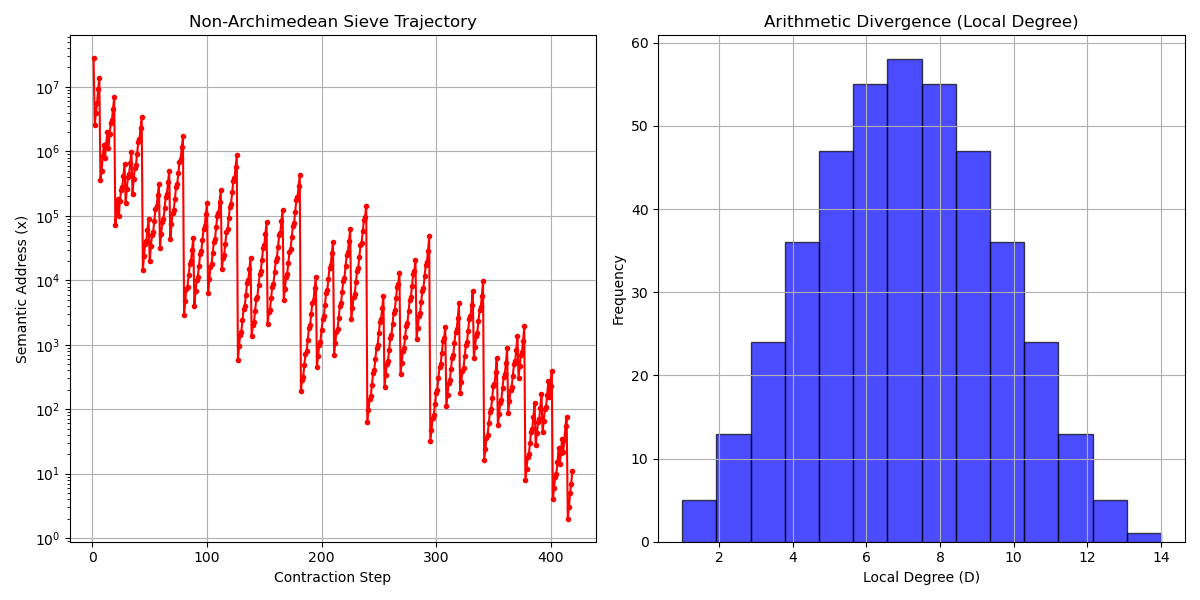
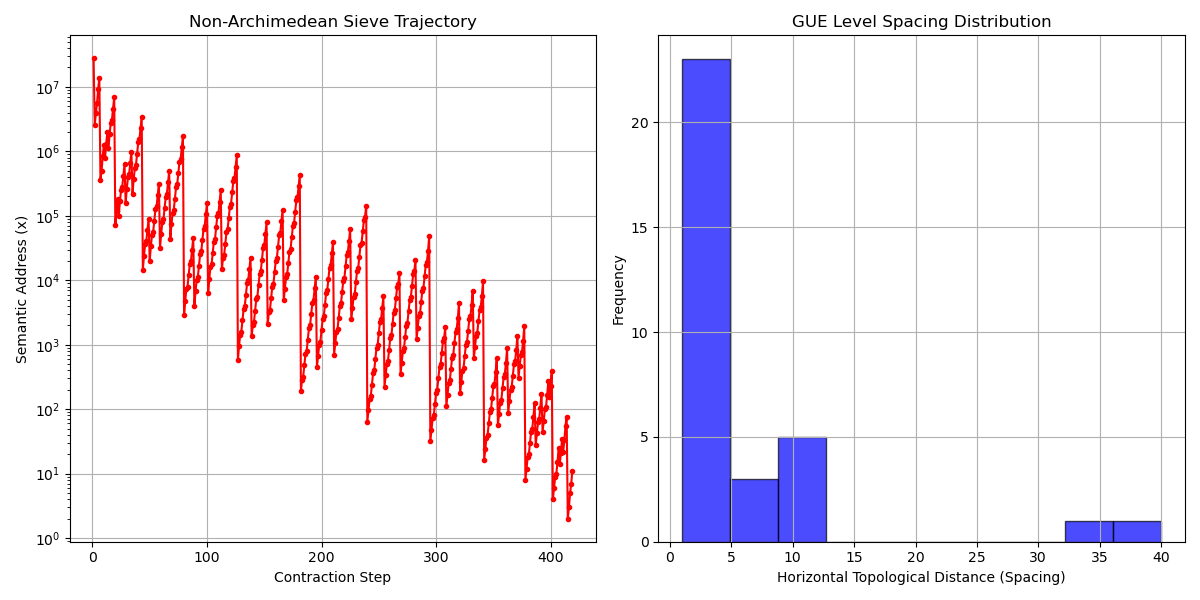
crossBranchAmplitude test mutual divisibility constraints across the tensor network

diff --git a/visualize_spectrum.py b/visualize_spectrum.py
@@ -32,9 +32,10 @@ def main():
         reader = csv.DictReader(f)
         for row in reader:
             xs.append(int(row['x']))
-            # We use local_degree as the structural analog for spectral weight/divergence
-            deg = int(row['local_degree'])
-            spacings.append(deg)
+            # Read horizontal eigenvalue_spacing instead of local_degree
+            spacing = int(row['eigenvalue_spacing'])
+            if int(row['jammed']) == 1 and spacing > 0:
+                spacings.append(spacing)
 
     if not xs:
         print("No data found in data.csv. Sieve failed to generate output.")
@@ -57,9 +58,10 @@ def main():
     # Plot 2: Eigenvalue Spacing Distribution (Arithmetic Divergence)
     # This visualizes the topological tension creating the discrete jamming events.
     plt.subplot(1, 2, 2)
-    plt.hist(spacings, bins=max(10, len(set(spacings))), alpha=0.7, color='blue', edgecolor='black')
-    plt.title('Arithmetic Divergence (Local Degree)')
-    plt.xlabel('Local Degree (D)')
+    bins_count = max(10, len(set(spacings))) if spacings else 10
+    plt.hist(spacings, bins=bins_count, alpha=0.7, color='blue', edgecolor='black')
+    plt.title('GUE Level Spacing Distribution')
+    plt.xlabel('Horizontal Topological Distance (Spacing)')
     plt.ylabel('Frequency')
     plt.grid(True)
     
